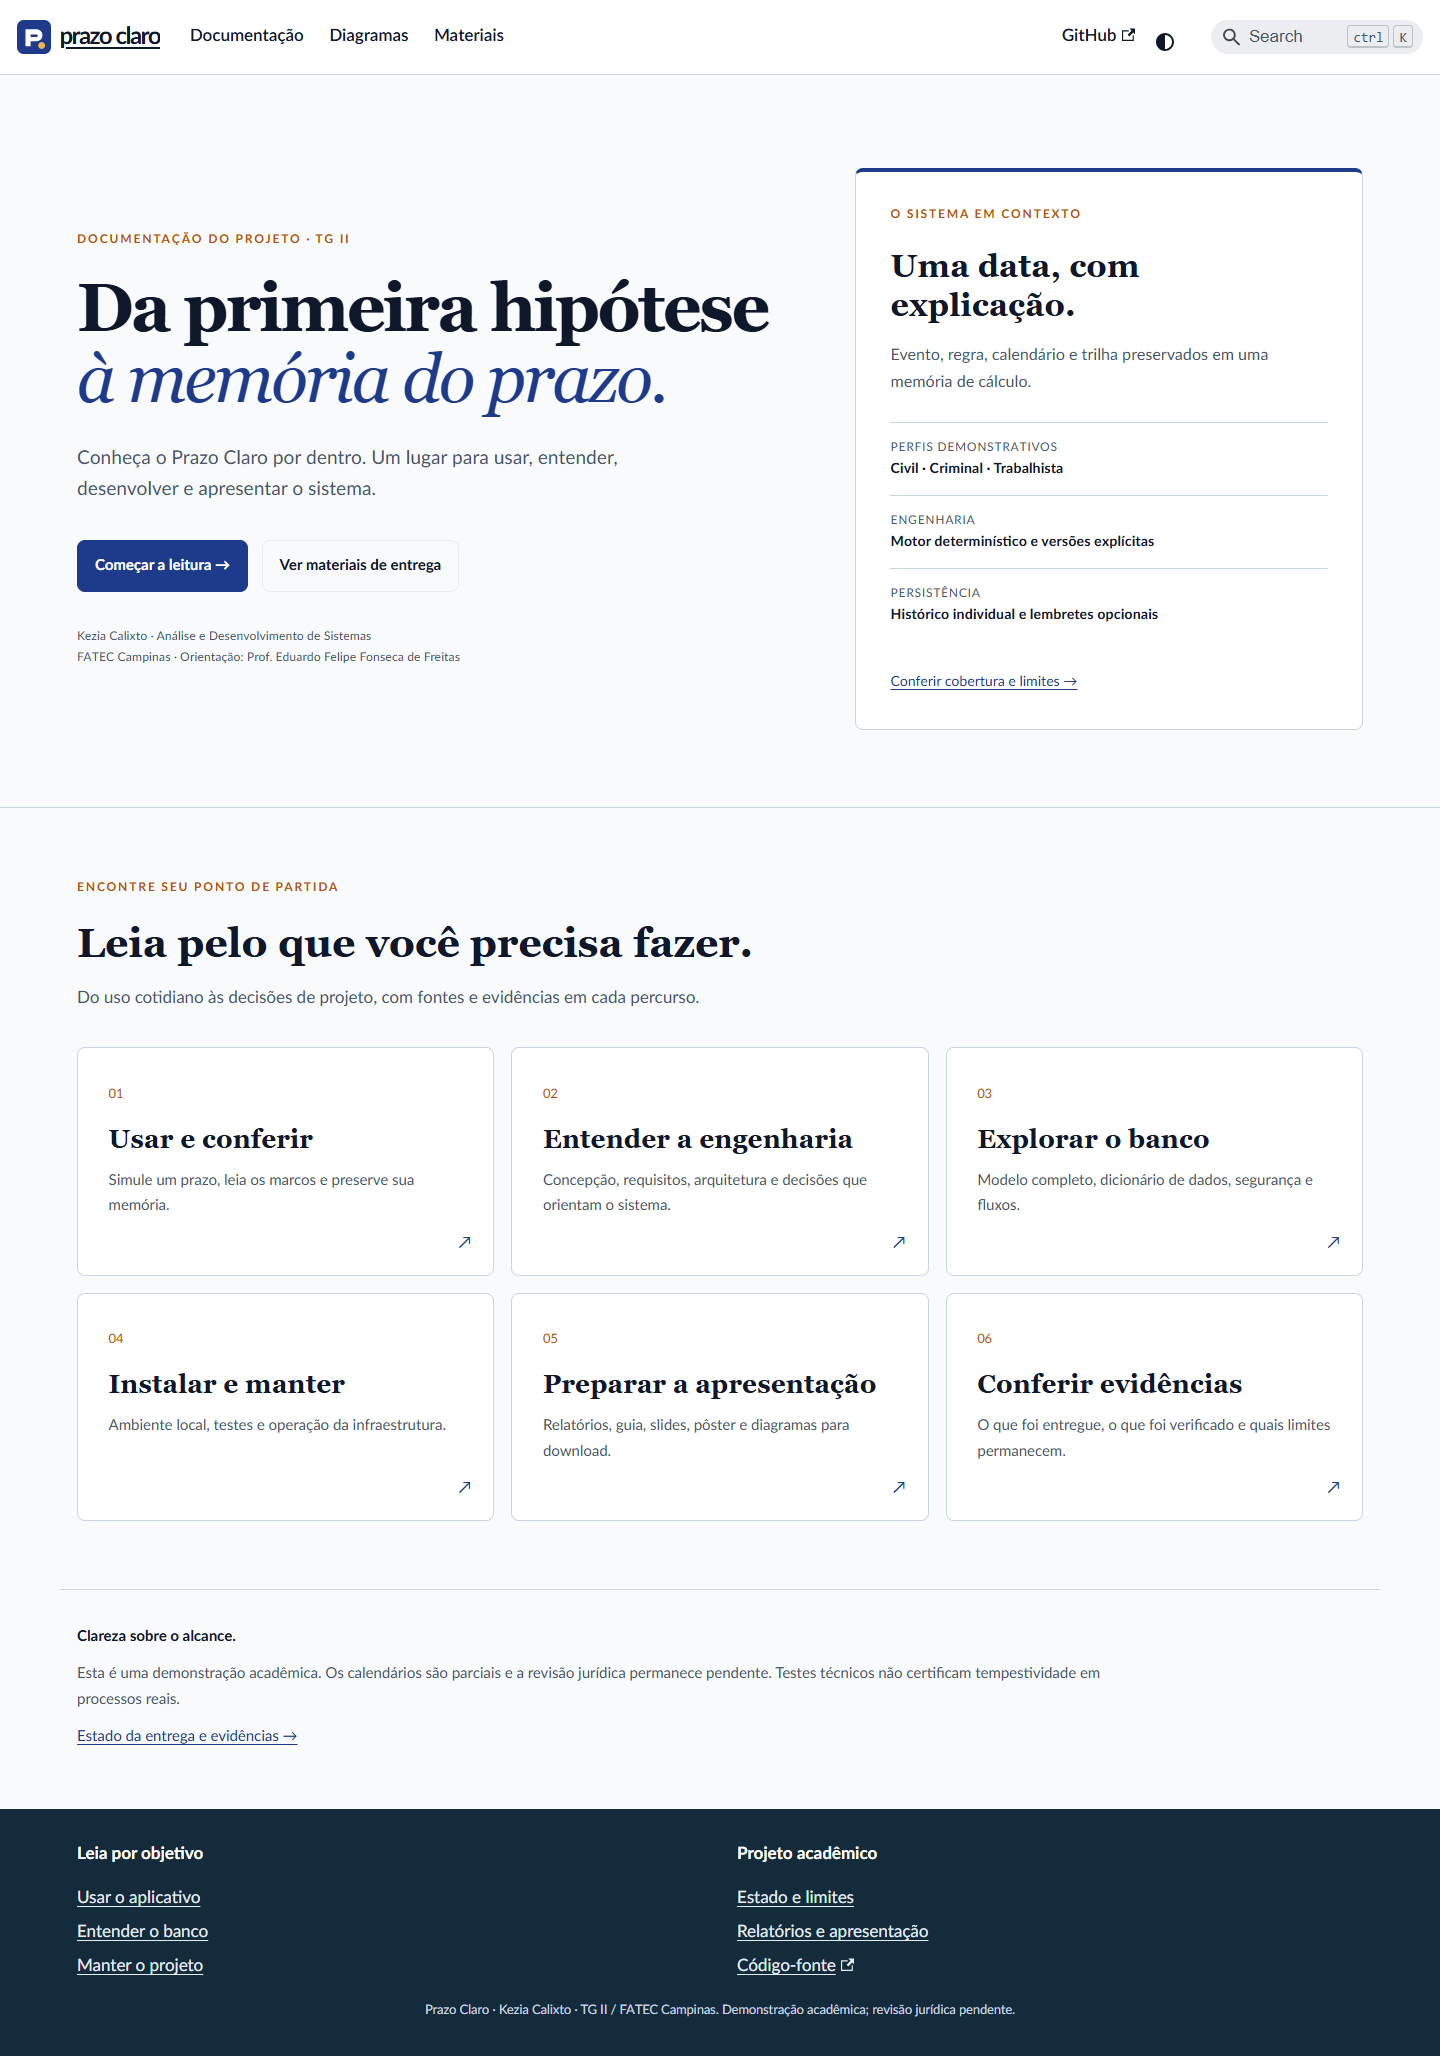
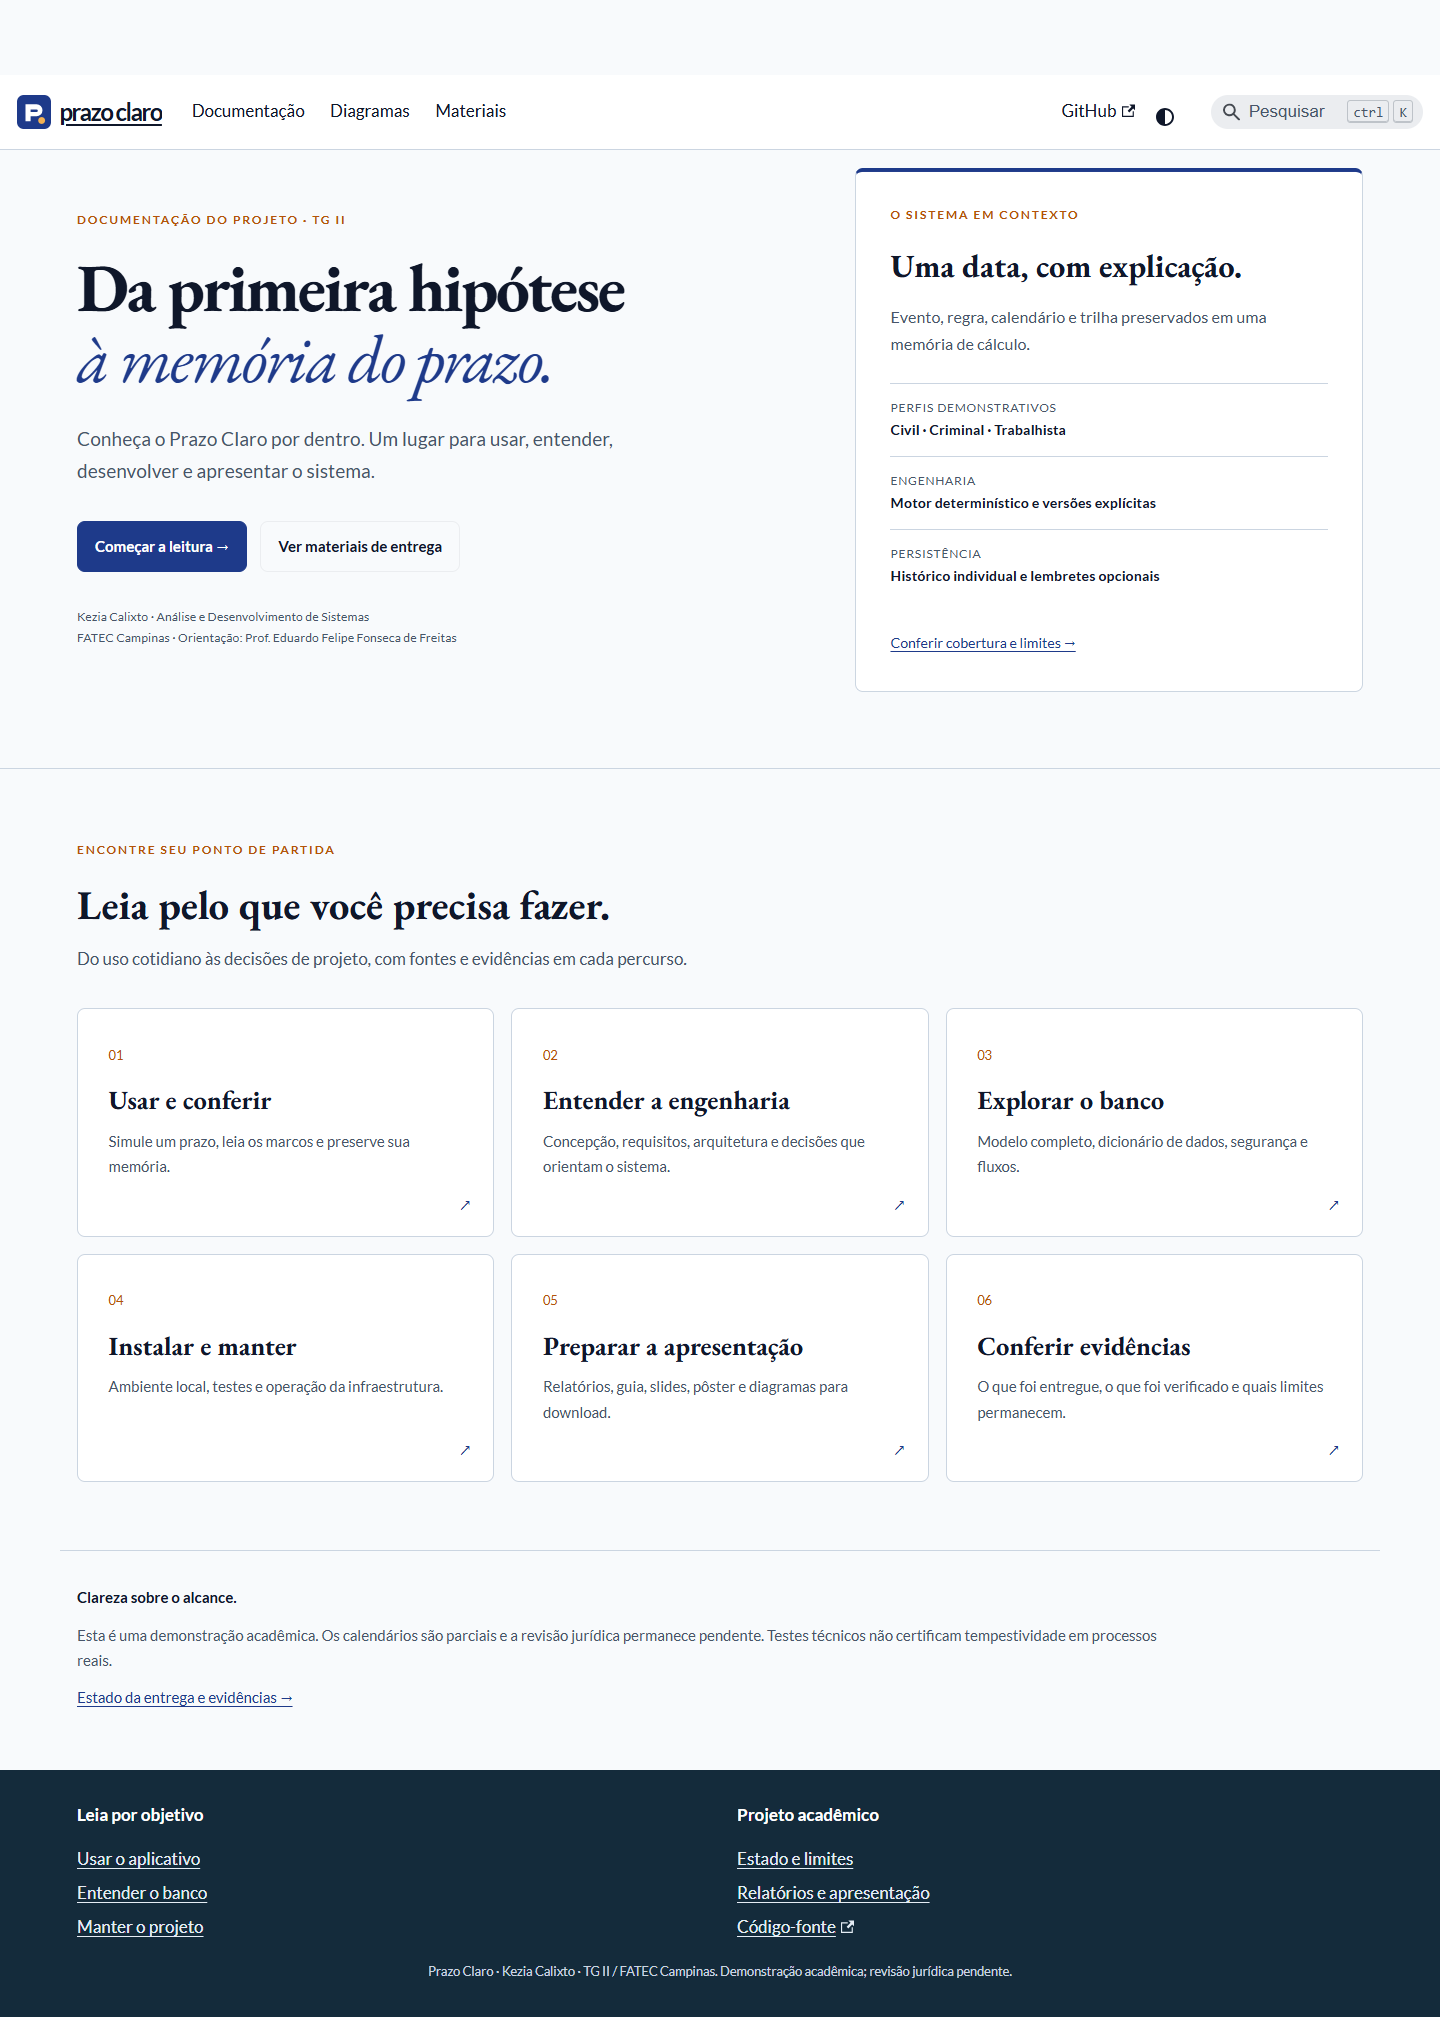
fix: conclui acessibilidade e validacao do portal de documentacao

diff --git a/website/src/theme/SearchBar/index.jsx b/website/src/theme/SearchBar/index.jsx
@@ -1,0 +1,18 @@
+import React, { useEffect, useRef } from "react";
+import OriginalSearchBar from "@theme-original/SearchBar";
+
+// The third-party search widget hardcodes an English aria-label. Adapt its
+// interactive control after hydration without copying or patching the package.
+export default function SearchBar(props) {
+  const root = useRef(null);
+  useEffect(() => {
+    root.current
+      ?.querySelector("input")
+      ?.setAttribute("aria-label", "Pesquisar");
+  }, []);
+  return (
+    <div ref={root} role="search" aria-label="Pesquisar na documentação">
+      <OriginalSearchBar {...props} />
+    </div>
+  );
+}

diff --git a/website/src/css/custom.css b/website/src/css/custom.css
@@ -1,3 +1,10 @@
+@import "@fontsource/lato/latin-400.css";
+@import "@fontsource/lato/latin-700.css";
+@import "@fontsource/eb-garamond/latin-400.css";
+@import "@fontsource/eb-garamond/latin-400-italic.css";
+@import "@fontsource/eb-garamond/latin-600.css";
+@import "@fontsource/eb-garamond/latin-700.css";
+
 :root {
   --ifm-color-primary: #1e3a8a;
   --ifm-color-primary-dark: #1b347c;

diff --git a/docs/testing/documentation-portal-2026-11-08.md b/docs/testing/documentation-portal-2026-11-08.md
@@ -1,0 +1,33 @@
+# Portal Docusaurus — verificação de 08/11/2026
+
+## Escopo e processo
+
+Portal estático independente, no repositório KeziaCalixto/TG-KEZIA2 e na branch login/prazo. Proposta aprovada pelo responsável; execução com as skills Matt Pocock implement, TDD e code-review. As interfaces sob teste são o publisher, o HTML estático final e a navegação no navegador. Não foi alterado o motor, calendário, regra, banco, Auth, Brevo ou Vercel.
+
+Materiais recuperados: 114 arquivos, 13.654.925 bytes, com hashes em docs/documentation-portal/recovered-materials.json. Comparação normalizada LF/CRLF encontrou igualdade dos 71 arquivos de aplicação/migrations entre as duas cópias. Hashes de commits históricos pertencem à origem, sem fabricação de histórico no novo repositório.
+
+## Comandos executados e resultados
+
+- `node --test website/tests/publisher.test.mjs` e depois `npm --prefix website test`: cinco testes aprovados. Cada novo comportamento foi observado falhando antes de sua implementação: geração/link/download; arquivo privado/credencial; nome com espaço/acento; rota duplicada; referência original removida.
+- `npm --prefix website run build`: build de produção concluído, com Docusaurus 3.10.2 e Node.js 22.14.0. Dependências e fontes fixadas em lockfile próprio.
+- `npm --prefix website run verify:build`: 91 páginas HTML, 88 documentos e 6.416 referências locais conferidas sem erro no primeiro build aprovado. Inclui links, âncoras, imagens, scripts, CSS e downloads sob /TG-KEZIA2/.
+- `pnpm check`: tipos, lint, formatação e 256 testes unitários em 18 arquivos aprovados. O primeiro check parou na formatação por CRLF da cópia Windows; os arquivos foram normalizados para o LF já existente no Git, sem alteração de conteúdo lógico. .gitattributes protege os binários e estabelece LF para texto. O cache Git de 102 arquivos idênticos byte a byte ao commit foi atualizado sem alterar seu conteúdo.
+- Browser de diagnóstico: desktop 1440×1000 e celular 390×844; navegação, busca local, recarga, duas imagens de diagramas, PDF por assinatura %PDF-, Mermaid e dicionário completos aprovados. Axe com tags WCAG 2 A/AA e 2.1 AA encontrou zero violações nas páginas inicial e de banco após a correção de contraste do atalho da busca. Essa primeira etapa usou o CSS-fonte para isolar o ajuste e foi seguida de build novo; não é o aceite final do artefato compilado.
+
+## Correções encontradas pela verificação
+
+IDs numéricos de ADRs passaram a ser explícitos; links com espaços/acentos foram normalizados; a dependência opcional de layout requerida pelo tema Mermaid foi fixada. ESM explícito causava require.resolveWeak na geração SSR, e CommonJS explícito impedia os imports do código gerado; o pacote do portal passou a usar a detecção automática, mantendo scripts .mjs e configurações .cjs. Referência primária: https://github.com/facebook/docusaurus/discussions/11326 .
+
+O atalho Ctrl K da busca tinha contraste insuficiente; foi ligado à cor de texto secundária do design system. A revisão Standards identificou aria-label Search na biblioteca; um wrapper local adapta o controle interativo para Pesquisar após hidratação, sem copiar/editar node_modules. O teste de navegador exige esse nome. Placeholder e skip-link traduzidos; Lato e EB Garamond servidos localmente.
+
+A auditoria de links-fonte identificou uma referência a docs/6-Template_Relatorio_TG-II.pdf, removido na nova cópia pelo commit bf3abaf. O publisher identifica a referência como arquivo indisponível, em vez de fabricar um link para um arquivo inexistente. Fontes presentes fora do portal têm link para o repositório; imagens não permitidas impedem a geração.
+
+## Revisão Matt Pocock
+
+Ponto fixo 5f21224. Standards e Spec foram revisados separadamente sobre a recuperação e o portal (ba11afb, 13ad0ca). Spec: sem achados acionáveis, incluindo recuperação/hash e cobertura. Standards: um achado P2 de nome acessível em inglês; adaptação revisada e aceita para o estado funcional após hidratação. Fontes locais atendem ao design system. Não foi exigida nova validação jurídica.
+
+## Aceites finais e limites
+
+**Artefato final aprovado localmente:** novo build de produção com fontes locais e rótulo corrigido; verificador repetido com 91 páginas/88 documentos/6.416 referências locais e zero erros. Browser sem injeção de CSS aprovado em desktop e celular: atalho por Tab/Enter continua no conteúdo, menu móvel, busca com seleção de resultado, recarga, duas imagens de diagramas, download real do PDF, Mermaid e dicionário. Lato e EB Garamond confirmadas como carregadas por document.fonts. Modo escuro desktop conferido com axe e captura; zero violações nas páginas e estados automatizados. Capturas públicas: docs-portal-desktop.png, docs-portal-mobile.png e docs-portal-dark.png. Licenças das fontes preservadas como asset estático. O teste de teclado verifica o comportamento de navegação para o primeiro link do conteúdo, sem depender do foco transitório usado internamente pelo framework. Publicação GitHub Pages não deve ser inferida do build. A credencial ativa tem push, sem admin; consulta de Pages retornou 404, e o responsável recebeu orientação para habilitar Source = GitHub Actions na conta administradora. Workflows têm validação em PR, publicação restrita a login/prazo e permissões de Pages/OIDC somente no deploy.
+
+Não houve nova execução SQL, reset, migração, envio de e-mail ou inspeção de dados de produção. Testes históricos citados no conteúdo conservam sua data. Testes automatizados de acessibilidade não equivalem a auditoria completa de todas as páginas ou tecnologias assistivas.

diff --git a/docs/documentation-portal/implementation-plan.md b/docs/documentation-portal/implementation-plan.md
@@ -6,12 +6,12 @@ Base da implementação: 5f21224. Permanecer na branch login/prazo e fazer commi
 
 ## Etapas
 
-- [ ] Recuperar materiais posteriores com lista explícita e SHA-256, preservando código e migrations.
-- [ ] Criar publisher determinístico: manifest de páginas/arquivos → Markdown e assets permitidos. Testar reescrita de links, arquivo ausente, rota e bloqueio de credenciais/travessia de caminho.
-- [ ] Criar website/ isolado com Docusaurus, identidade Prazo Claro, navegação e configuração do prefixo /TG-KEZIA2/.
-- [ ] Escrever percursos atuais e publicar referências existentes, relatório de banco expandido, diagramas e biblioteca acadêmica. Distinguir referências históricas do estado atual.
-- [ ] Validar testes do publisher, build, todos os links/âncoras/arquivos locais do HTML, desktop/celular/teclado e regressões pertinentes da aplicação.
-- [ ] Criar workflow de PR e Pages, registrar operação, evidências e revisão Standards/Spec conforme Matt Pocock.
+- [x] Recuperar materiais posteriores com lista explícita e SHA-256, preservando código e migrations.
+- [x] Criar publisher determinístico: manifest de páginas/arquivos → Markdown e assets permitidos. Testar reescrita de links, arquivo ausente, rota e bloqueio de credenciais/travessia de caminho.
+- [x] Criar website/ isolado com Docusaurus, identidade Prazo Claro, navegação e configuração do prefixo /TG-KEZIA2/.
+- [x] Escrever percursos atuais e publicar referências existentes, relatório de banco expandido, diagramas e biblioteca acadêmica. Distinguir referências históricas do estado atual.
+- [x] Validar testes do publisher, build, todos os links/âncoras/arquivos locais do HTML, desktop/celular/teclado e regressões pertinentes da aplicação.
+- [x] Criar workflow de PR e Pages, registrar operação, evidências e revisão Standards/Spec conforme Matt Pocock.
 - [ ] Enviar commits e verificar a publicação; se Pages exigir ação administrativa indisponível, informar exatamente a etapa restante com o portal já validado.
 
 ## Interfaces de verificação aprovadas pelo escopo

diff --git a/README.md b/README.md
@@ -1,6 +1,6 @@
 # Prazo Claro
 
-**Documentação — atualização de 08/11/2026:** portal Docusaurus em `website/`, no repositório `KeziaCalixto/TG-KEZIA2`, branch `login/prazo`. [Como gerar e manter o portal](website/README.md). Relatórios, slides, pôster e diagramas posteriores foram recuperados; o recebimento externo e acesso à memória do lembrete foram confirmados em 24/10. Os marcos anteriores abaixo conservam sua data de corte. [Aceite posterior](docs/testing/reminder-receipt-2026-10-24.md). Endereço configurado do portal: https://keziacalixto.github.io/TG-KEZIA2/ ; publicação ainda em validação.
+**Documentação — atualização de 08/11/2026:** portal Docusaurus em `website/`, no repositório `KeziaCalixto/TG-KEZIA2`, branch `login/prazo`. [Como gerar e manter o portal](website/README.md). Relatórios, slides, pôster e diagramas posteriores foram recuperados; o recebimento externo e acesso à memória do lembrete foram confirmados em 24/10. Os marcos anteriores abaixo conservam sua data de corte. [Aceite posterior](docs/testing/reminder-receipt-2026-10-24.md). Endereço configurado do portal: https://keziacalixto.github.io/TG-KEZIA2/ ; portal validado localmente; publicação no Pages em preparação.
 
 **Entrega acadêmica de 23/10:** perfis parciais civil, trabalhista e criminal de SP, atos e histórico organizado no [site](https://tg-kezia2.vercel.app). **256 unitários, 146 SQL e 63 E2E** aprovados na CI, com um cenário omitido. Lembretes Brevo habilitados e Cron ativo após diagnóstico de produção; o recebimento pelo proprietário ainda precisa ser confirmado. [Guia da entrega](docs/entrega/README.md), [aceite vigente](docs/entrega/aceite.md), [evidências hospedadas](docs/testing/reminders-production.md) e [operação](docs/reminder-scheduler-operations.md).
 

diff --git a/docs/backlog.md b/docs/backlog.md
@@ -1,6 +1,6 @@
 # Backlog e critérios de conclusão
 
-**Atualização de 08/11/2026:** portal Docusaurus em implementação na nova cópia/repositório da autora. Materiais acadêmicos posteriores recuperados com hashes; recebimento externo e abertura da memória confirmados em 24/10. As pendências antigas de lembrete e relatório dos registros abaixo não representam o estado atual. [Aceite humano](testing/reminder-receipt-2026-10-24.md), [plano e fontes do portal](documentation-portal/README.md). Publicação do portal depende de build e Pages verificados; revisão jurídica e acadêmica permanecem independentes.
+**Atualização de 08/11/2026:** portal Docusaurus validado localmente na nova cópia/repositório da autora: 88 documentos, 57 assets, 6.416 referências locais sem erro, cinco testes da geração, 256 unitários e navegação desktop/celular aprovados. Materiais acadêmicos posteriores recuperados com hashes; recebimento externo e abertura da memória confirmados em 24/10. As pendências antigas de lembrete e relatório dos registros abaixo não representam o estado atual. [Aceite humano](testing/reminder-receipt-2026-10-24.md), [plano e fontes do portal](documentation-portal/README.md). Publicação no Pages aguarda configuração administrativa e workflow verificados; revisão jurídica e acadêmica permanecem independentes.
 
 ## Registros anteriores
 

diff --git a/website/README.md b/website/README.md
@@ -16,3 +16,5 @@ Desenvolvimento e serve: http://127.0.0.1:3001/TG-KEZIA2/ . Endereço de publica
 O pacote é independente do Next.js e usa lockfile próprio. O manifest lista as fontes e assets permitidos. `content/` contém os guias editoriais; `.generated/docs/` e `static/generated/` são gerados, ignorados e não devem ser editados manualmente. `scripts/publisher.mjs` expande/revincula a documentação, bloqueia arquivos privados e produz hashes das fontes. O relatório de banco possui transformação explícita para tabelas e referências.
 
 O workflow publica somente a branch login/prazo e necessita de Settings → Pages → Source: GitHub Actions, configurado por quem administra o repositório. Não usa chaves de Supabase, Brevo ou Vercel. A documentação segue Matt Pocock implement/TDD/code-review; proposta aprovada e plano estão em docs/documentation-portal/ e docs/superpowers/specs/ como registro da aprovação anterior.
+
+Fontes da marca servidas localmente; licenças em static/NOTICE-fontes.txt. A adaptação em src/theme/SearchBar traduz o nome acessível do widget interativo após hidratação, sem editar sua dependência. Teste de navegador: `npm --prefix website run test:browser` (Edge no Windows; Chromium instalado pelo Playwright nos demais sistemas). Resultados e limites: docs/testing/documentation-portal-2026-11-08.md.
